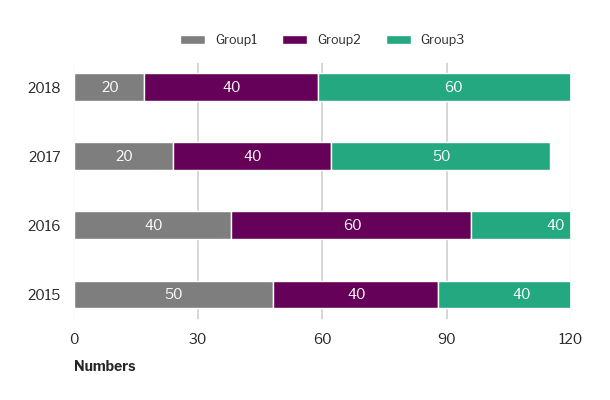
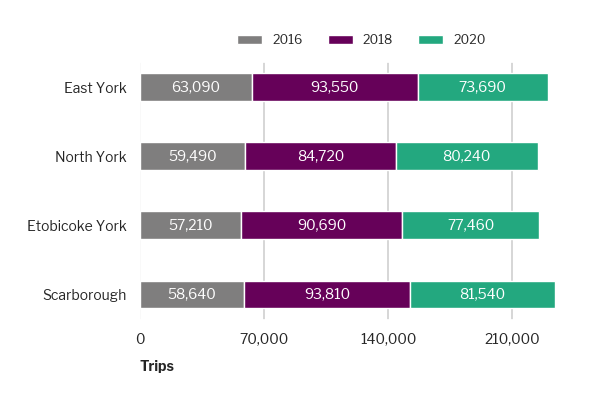
#8 update multi_stacked_bar chart

diff --git a/sphinx/source/examples/grouped_bar/plot_multi_stacked_bar.py b/sphinx/source/examples/grouped_bar/plot_multi_stacked_bar.py
@@ -44,10 +44,18 @@ data = {
     'Group2': np.random.randint(20, 60, 4),
     'Group3': np.random.randint(30, 80, 4)
 }
-df = pd.DataFrame(data)
+
+data1 = {
+    'Location': ['Scarborough', 'Etobicoke York', 'North York', 'East York'],
+    '2016': [58640, 57210, 59490, 63090],
+    '2018': [93810, 90690, 84720, 93550],
+    '2020': [81538, 77456, 80235, 73692]
+}
+
+df = pd.DataFrame(data1)
 ##df = df.set_index('Category')
 
-fig, ax = rick.charts.multi_stacked_bar_chart(df, xlab = 'Numbers', lab1 = 'Group1', lab2 = 'Group2',  lab3 = 'Group3')
+fig, ax = rick.charts.multi_stacked_bar_chart(df, xlab = 'Trips', lab1 = '2016', lab2 = '2018', lab3 = '2020', xmax= 250000)
 fig.tight_layout()
 plt.show()
 plt.savefig("sphinx/source/examples/grouped_bar/YZtest_multi_stacked_bar_chart.png")
